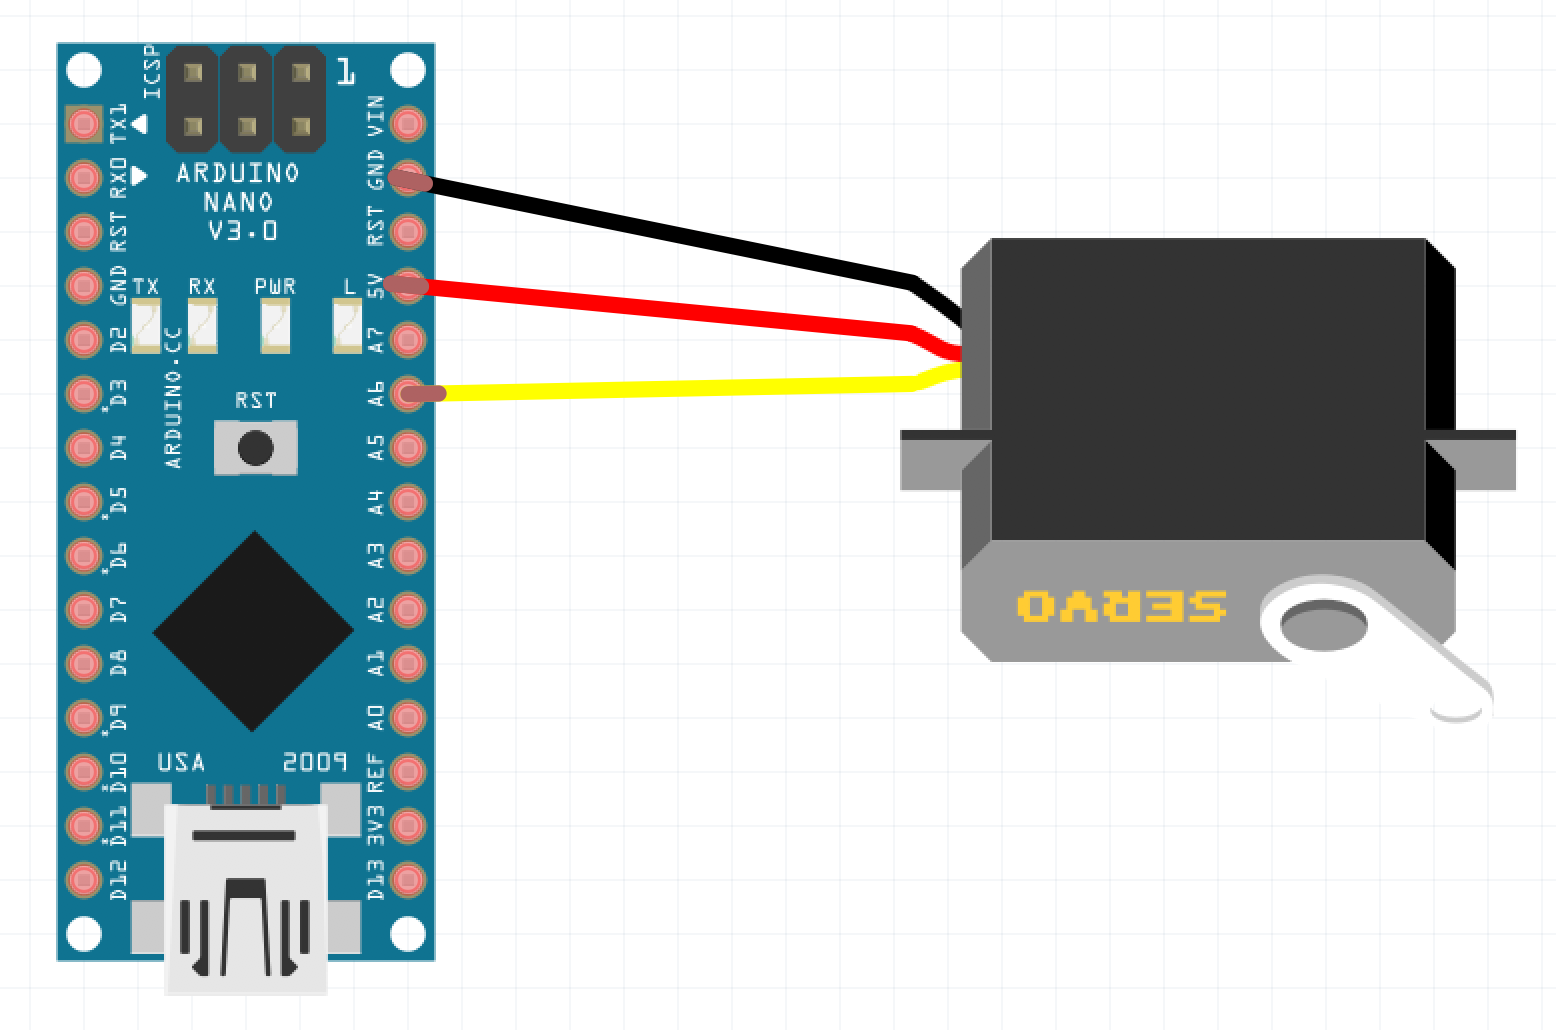
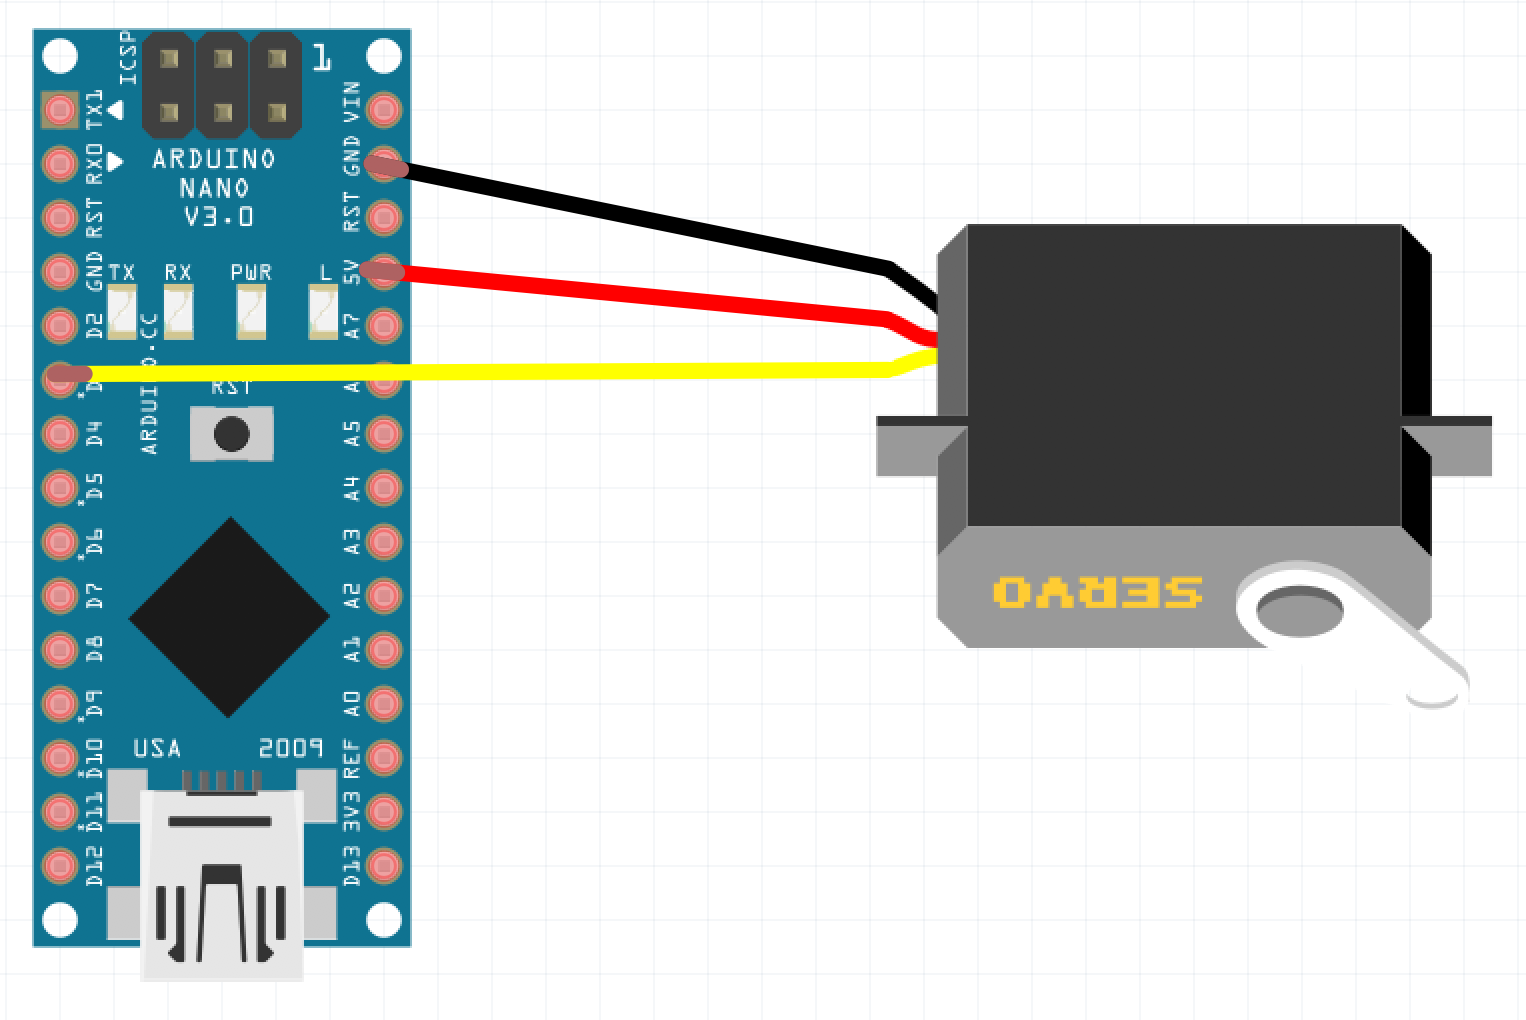
new wiring diagram for nano

Changed region(s): [[0.0, 0.0304, 0.9856, 0.9725], [0.616, 0.6078, 0.6468, 0.6382]]

diff --git a/README.md b/README.md
@@ -34,7 +34,7 @@ Machine screws | 1 pack | 560-596 | RS Online | 2.39
     * Black to Ground
     * Yellow to any PWM (pin 3,5,6,9,10 or 11)
 
-*The servo can draw 140mA, which is comfortably handled by the arduino and the USB supply from a computer*
+* *The servo can draw 140mA, which is comfortably handled by the arduino and the USB supply from a computer*
 * Mount the arduino on the side of the servo with hot glue for convenience
 * Attach the 3D printed part to the breadboard using an M3 screw. If working in along the 90 degree angles of the board then two screws can be added. In the example shown a 45 degree angle is used, and only one screw is added. A second screw hole is provided on the 25mm version to ensure a neat 45 degree angle is made.
 * 
